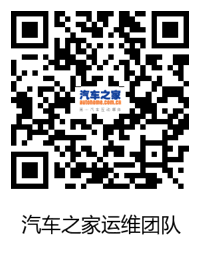
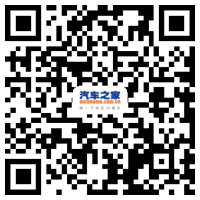
change email and blog address

diff --git a/_posts/2016-04-11-pushguide-introduce.md b/_posts/2016-04-11-pushguide-introduce.md
@@ -13,12 +13,12 @@ comments: true
 
 ### 作者介绍
 
-本文作者是王金龙 <wangjinlong@autohome.com.cn>，主要负责汽车之家发布系统，CMDB系统的开发工作，擅长python自动化运维开发。
+本文作者是王金龙 <autohomeops@autohome.com.cn>，主要负责汽车之家发布系统，CMDB系统的开发工作，擅长python自动化运维开发。
 
 ### 团队介绍
 
 我们是汽车之家运维团队，是汽车之家技术部里最为核心的团队，由op和dev共同组成。我们的目标是为汽车之家集团打造一个高性能，高可扩展，低成本，并且稳定可靠的网站基础设施平台。
-团队技术博客地址为 http://autohomeops.github.io/
+团队技术博客地址为 http://autohomeops.corpautohome.com
 
 ![image](/images/cli_200px.png)
 
